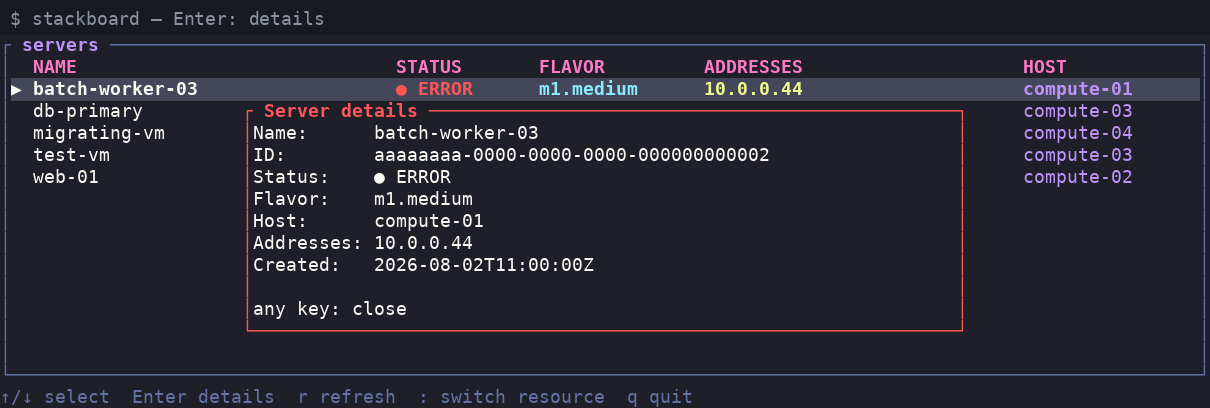
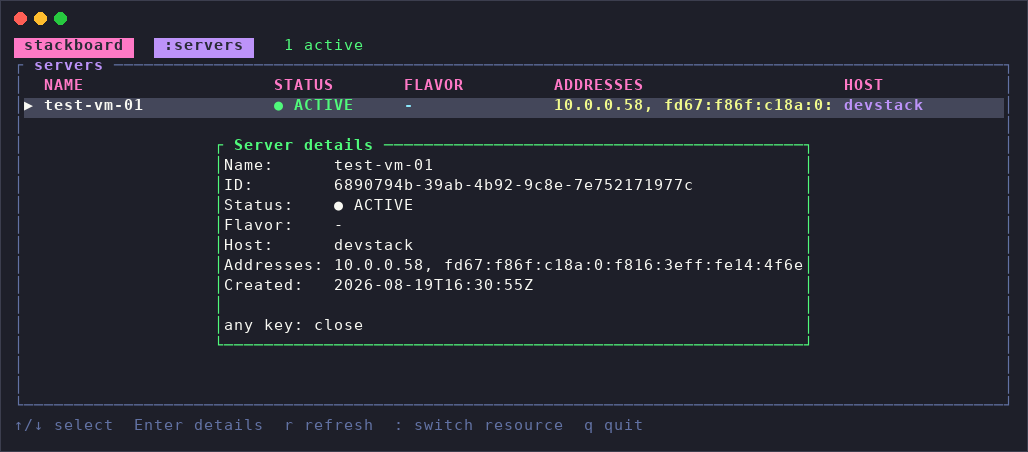
docs: replace mock screenshots with real DevStack captures, add setup wizard shot
list.png and detail.png were captured against a self-written mock
Keystone/Nova server before a real OpenStack cloud existed. Replaced
both with captures against the live DevStack deployment (real
ACTIVE server, real UUID, real addresses), and added a third
screenshot of the setup wizard to show off the zero-config flow.

Changed region(s): [[0.0, 0.0, 1.0, 1.0]]

diff --git a/README.md b/README.md
@@ -18,6 +18,9 @@ $ stackboard
 <img src="https://raw.githubusercontent.com/wabuntu/stackboard/main/docs/list.png" alt="stackboard's server list, colored by status, with live counts in the header" width="620">
 <img src="https://raw.githubusercontent.com/wabuntu/stackboard/main/docs/detail.png" alt="stackboard's server detail popup, its border colored to match the server's status" width="620">
 
+Both screenshots above are the real thing — captured against a live
+OpenStack (DevStack) cloud, not a mockup.
+
 ## Zero-config if you already use the `openstack` CLI
 
 stackboard reads credentials the exact same way the `openstack` CLI does —
@@ -31,6 +34,8 @@ only answer the questions once.
 ```
 $ stackboard setup   # run the wizard on demand, e.g. to add another cloud
 ```
+
+<img src="https://raw.githubusercontent.com/wabuntu/stackboard/main/docs/setup.png" alt="stackboard's setup wizard prompting for an auth URL, username, password, and project, then confirming it saved the result" width="620">
 
 ## Usage
 
